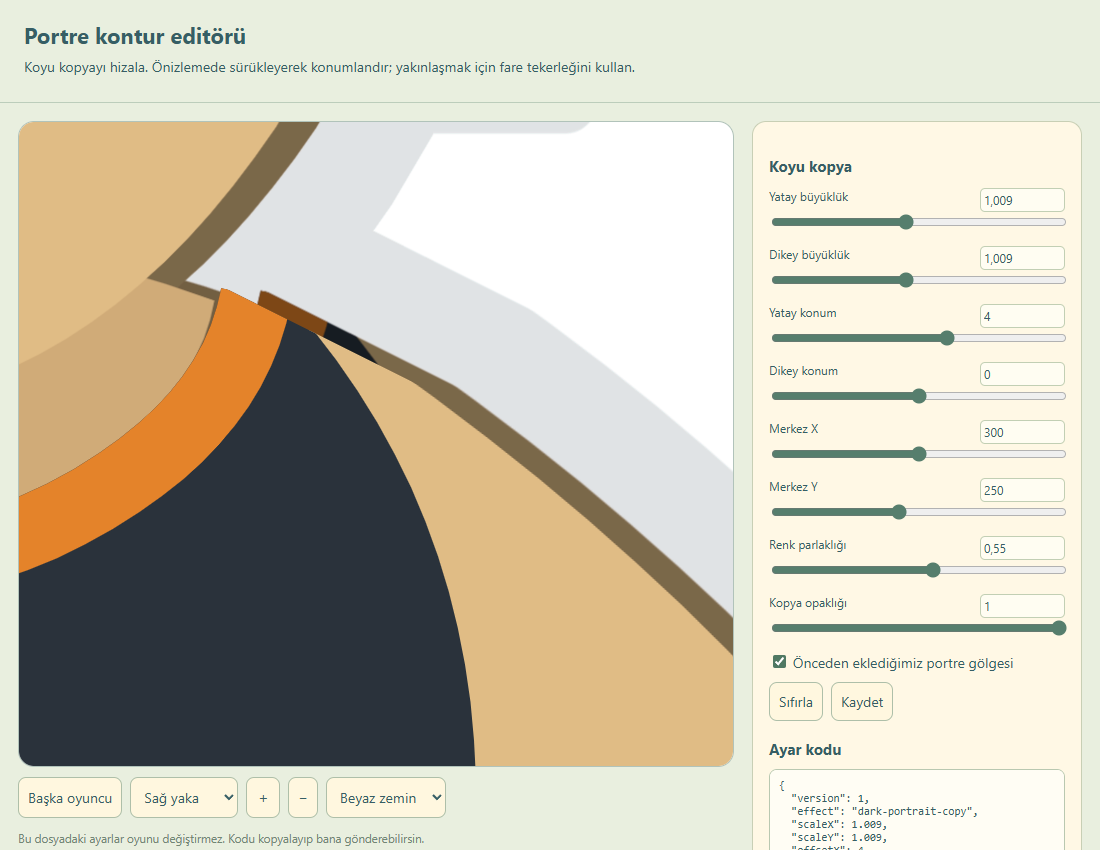
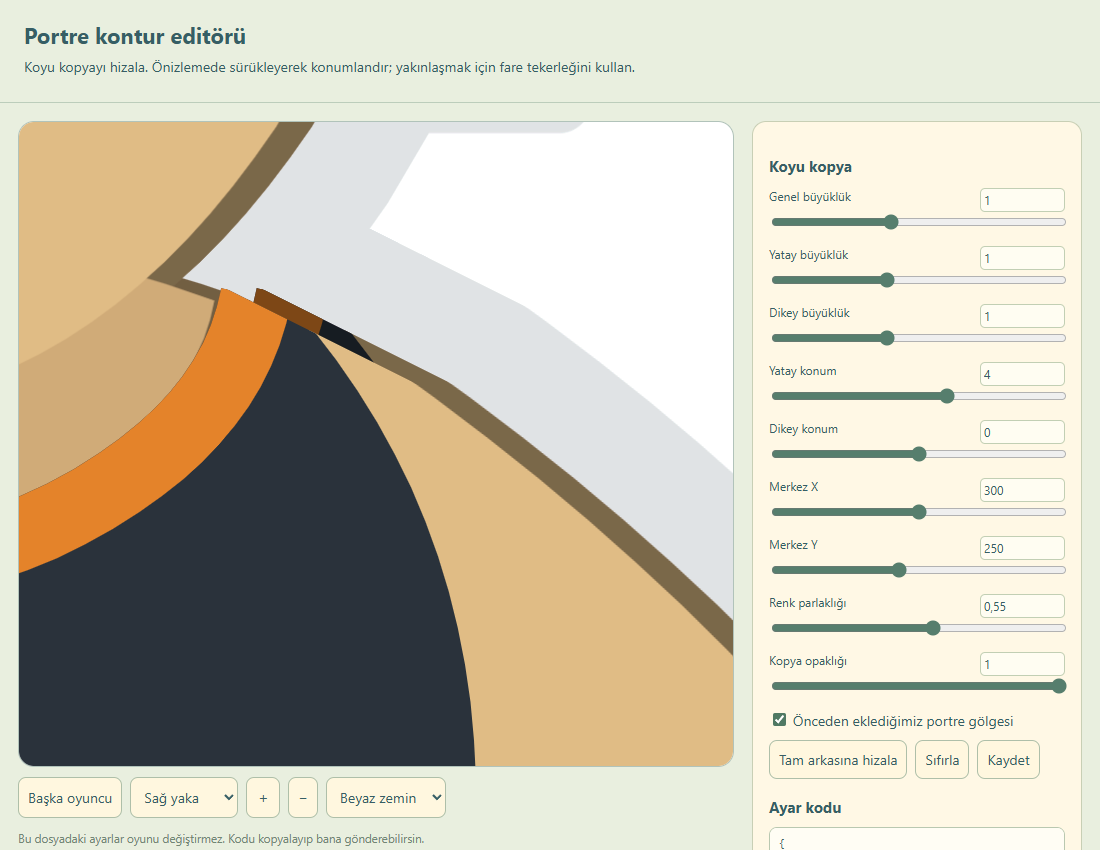
Add uniform portrait scale and exact overlap alignment in editor

diff --git a/portrait-outline-editor.html b/portrait-outline-editor.html
@@ -1,13 +1,13 @@
 <!doctype html><html lang="tr"><meta charset="utf-8"><meta name="viewport" content="width=device-width,initial-scale=1"><title>Portre kontur editörü</title><style>
 *{box-sizing:border-box}body{margin:0;background:#e9efdf;color:#365e65;font:14px system-ui}header{padding:20px 24px;border-bottom:1px solid #bccdbb}h1{font-size:22px;margin:0 0 6px}p{margin:5px 0;line-height:1.5}main{display:grid;grid-template-columns:minmax(0,1fr) 330px;gap:18px;padding:18px;max-width:1440px;margin:auto}.stage{position:sticky;top:15px;height:76vh;min-height:360px;background:#fff;border:1px solid #b1c3ba;border-radius:16px;overflow:hidden;touch-action:none;cursor:grab}.stage:active{cursor:grabbing}.stage svg{width:100%;height:100%;display:block}.tools{display:flex;gap:8px;flex-wrap:wrap;margin:10px 0}button,select,input,textarea{font:inherit;color:inherit}button,select{background:#fff7df;border:1px solid #aebfa9;border-radius:8px;padding:9px;cursor:pointer}button:active{transform:translateY(1px)}aside{background:#fff8e5;padding:16px;border:1px solid #c8cfb5;border-radius:14px}h2{font-size:15px;margin:18px 0 10px}label.control{display:block;margin:12px 0}label.control>span{display:flex;justify-content:space-between;gap:8px;font-size:12px}input[type=range]{width:100%;accent-color:#567e6d}input[type=number]{width:85px;background:#fffdf2;border:1px solid #c2cfb4;border-radius:5px;padding:3px}textarea{width:100%;min-height:160px;background:#fffdf4;border:1px solid #b9c8b0;padding:9px;border-radius:8px;font:11px monospace}small{color:#728775}#notice{min-height:22px;font-size:12px}input[type=checkbox]{accent-color:#507963}@media(max-width:760px){main{display:block;padding:10px}.stage{position:relative;top:0;height:55vh;min-height:280px}aside{margin-top:12px}}
-</style><header><h1>Portre kontur editörü</h1><p>Koyu kopyayı hizala. Önizlemede sürükleyerek konumlandır; yakınlaşmak için fare tekerleğini kullan.</p></header><main><section><div id="stage" class="stage" aria-label="Portre önizlemesi"></div><div class="tools"><button id="new">Başka oyuncu</button><select id="view"><option value="portrait">Tam portre</option><option value="right">Sağ yaka</option><option value="left">Sol yaka</option></select><button id="zoomIn">＋</button><button id="zoomOut">−</button><select id="ground"><option value="#ffffff">Beyaz zemin</option><option value="#e9efdf">Menü zemini</option><option value="#365765">Koyu zemin</option></select></div><small>Bu dosyadaki ayarlar oyunu değiştirmez. Kodu kopyalayıp bana gönderebilirsin.</small></section><aside><h2>Koyu kopya</h2><div id="controls"></div><label><input id="shadow" type="checkbox" checked> Önceden eklediğimiz portre gölgesi</label><div class="tools"><button id="reset">Sıfırla</button><button id="save">Kaydet</button></div><h2>Ayar kodu</h2><textarea id="code" aria-label="Kontur ayar kodu" spellcheck="false"></textarea><div class="tools"><button id="copy">Kodu kopyala</button><button id="apply">Kodu uygula</button><button id="download">JSON indir</button></div><p id="notice" role="status"></p></aside></main>
+</style><header><h1>Portre kontur editörü</h1><p>Koyu kopyayı hizala. Önizlemede sürükleyerek konumlandır; yakınlaşmak için fare tekerleğini kullan.</p></header><main><section><div id="stage" class="stage" aria-label="Portre önizlemesi"></div><div class="tools"><button id="new">Başka oyuncu</button><select id="view"><option value="portrait">Tam portre</option><option value="right">Sağ yaka</option><option value="left">Sol yaka</option></select><button id="zoomIn">＋</button><button id="zoomOut">−</button><select id="ground"><option value="#ffffff">Beyaz zemin</option><option value="#e9efdf">Menü zemini</option><option value="#365765">Koyu zemin</option></select></div><small>Bu dosyadaki ayarlar oyunu değiştirmez. Kodu kopyalayıp bana gönderebilirsin.</small></section><aside><h2>Koyu kopya</h2><div id="controls"></div><label><input id="shadow" type="checkbox" checked> Önceden eklediğimiz portre gölgesi</label><div class="tools"><button id="align">Tam arkasına hizala</button><button id="reset">Sıfırla</button><button id="save">Kaydet</button></div><h2>Ayar kodu</h2><textarea id="code" aria-label="Kontur ayar kodu" spellcheck="false"></textarea><div class="tools"><button id="copy">Kodu kopyala</button><button id="apply">Kodu uygula</button><button id="download">JSON indir</button></div><p id="notice" role="status"></p></aside></main>
 <script src="team-asset-data.js"></script><script src="hair-colors.js"></script><script src="profile-hair-data.js"></script><script src="player-arm-gear.js"></script><script src="character-colors.js"></script><script src="team-appearance.js"></script><script>
 'use strict';
-const $=id=>document.getElementById(id),defaults={version:1,effect:'dark-portrait-copy',scaleX:1.009,scaleY:1.009,offsetX:0,offsetY:0,pivotX:300,pivotY:250,darkness:.55,alpha:1,shadow:true},ranges=[['scaleX','Yatay büyüklük',.95,1.08,.001],['scaleY','Dikey büyüklük',.95,1.08,.001],['offsetX','Yatay konum',-20,20,.1],['offsetY','Dikey konum',-20,20,.1],['pivotX','Merkez X',150,450,1],['pivotY','Merkez Y',100,450,1],['darkness','Renk parlaklığı',0,1,.01],['alpha','Kopya opaklığı',0,1,.01]];let state={...defaults},seed=7,shape,zoom=1,base=[125,65,350,375];try{state={...defaults,...JSON.parse(localStorage.getItem('portrait-copy-editor-v1')||'{}')}}catch{}
+const $=id=>document.getElementById(id),defaults={version:1,effect:'dark-portrait-copy',scale:1,scaleX:1,scaleY:1,offsetX:0,offsetY:0,pivotX:300,pivotY:250,darkness:.55,alpha:1,shadow:true},ranges=[['scale','Genel büyüklük',.8,1.3,.001],['scaleX','Yatay büyüklük',.95,1.08,.001],['scaleY','Dikey büyüklük',.95,1.08,.001],['offsetX','Yatay konum',-20,20,.1],['offsetY','Dikey konum',-20,20,.1],['pivotX','Merkez X',150,450,1],['pivotY','Merkez Y',100,450,1],['darkness','Renk parlaklığı',0,1,.01],['alpha','Kopya opaklığı',0,1,.01]];let state={...defaults},seed=7,shape,zoom=1,base=[125,65,350,375];try{state={...defaults,...JSON.parse(localStorage.getItem('portrait-copy-editor-v2')||'{}')}}catch{}
 for(const [key,title,min,max,step]of ranges){const label=document.createElement('label');label.className='control';label.innerHTML='<span>'+title+'<input type="number" min="'+min+'" max="'+max+'" step="'+step+'" data-number="'+key+'"></span><input type="range" min="'+min+'" max="'+max+'" step="'+step+'" data-range="'+key+'">';for(const input of label.querySelectorAll('input'))input.oninput=()=>{state[key]=Math.min(max,Math.max(min,Number(input.value)||0));render();};$('controls').append(label);}
 function makePlayer(){let n=seed;const a=TeamAppearance.generate(()=>((n=Math.imul(n,1664525)+1013904223>>>0)/4294967296));a.parts.find(p=>p.id==='shirt').tint='#29323b';const src=TeamAppearance.portrait(a,{lineArt:false,playerCrop:true,bareArms:true,jerseyAccent:'#e4832a',jerseyNumber:18});const doc=new DOMParser().parseFromString(decodeURIComponent(src.slice(src.indexOf(',')+1)),'image/svg+xml'),svg=doc.documentElement;shape=svg.innerHTML;render();}
-function render(){for(const [key]of ranges){document.querySelector('[data-range="'+key+'"]').value=state[key];const input=document.querySelector('[data-number="'+key+'"]');if(document.activeElement!==input)input.value=state[key];}$('shadow').checked=state.shadow;const d=state.darkness,transform='translate('+state.offsetX+' '+state.offsetY+') translate('+state.pivotX+' '+state.pivotY+') scale('+state.scaleX+' '+state.scaleY+') translate('+(-state.pivotX)+' '+(-state.pivotY)+')';$('stage').innerHTML='<svg xmlns="http://www.w3.org/2000/svg"><defs><g id="editor-original">'+shape+'</g><filter id="editor-dark" x="-30%" y="-30%" width="160%" height="160%" color-interpolation-filters="sRGB"><feColorMatrix type="matrix" values="'+d+' 0 0 0 0 0 '+d+' 0 0 0 0 0 '+d+' 0 0 0 0 0 1 0"/></filter><filter id="editor-shadow" x="-30%" y="-30%" width="160%" height="160%"><feMorphology in="SourceAlpha" operator="dilate" radius="8.5" result="wide"/><feFlood flood-color="#263e4a" flood-opacity=".15"/><feComposite in2="wide" operator="in"/><feMerge><feMergeNode/><feMergeNode in="SourceGraphic"/></feMerge></filter></defs><g '+(state.shadow?'filter="url(#editor-shadow)"':'')+'><use href="#editor-original" transform="'+transform+'" filter="url(#editor-dark)" opacity="'+state.alpha+'"/><use href="#editor-original"/></g></svg>';setView();$('code').value=JSON.stringify(state,null,2);}
+function render(){for(const [key]of ranges){document.querySelector('[data-range="'+key+'"]').value=state[key];const input=document.querySelector('[data-number="'+key+'"]');if(document.activeElement!==input)input.value=state[key];}$('shadow').checked=state.shadow;const d=state.darkness,transform='translate('+state.offsetX+' '+state.offsetY+') translate('+state.pivotX+' '+state.pivotY+') scale('+(state.scale*state.scaleX)+' '+(state.scale*state.scaleY)+') translate('+(-state.pivotX)+' '+(-state.pivotY)+')';$('stage').innerHTML='<svg xmlns="http://www.w3.org/2000/svg"><defs><g id="editor-original">'+shape+'</g><filter id="editor-dark" x="-30%" y="-30%" width="160%" height="160%" color-interpolation-filters="sRGB"><feColorMatrix type="matrix" values="'+d+' 0 0 0 0 0 '+d+' 0 0 0 0 0 '+d+' 0 0 0 0 0 1 0"/></filter><filter id="editor-shadow" x="-30%" y="-30%" width="160%" height="160%"><feMorphology in="SourceAlpha" operator="dilate" radius="8.5" result="wide"/><feFlood flood-color="#263e4a" flood-opacity=".15"/><feComposite in2="wide" operator="in"/><feMerge><feMergeNode/><feMergeNode in="SourceGraphic"/></feMerge></filter></defs><g '+(state.shadow?'filter="url(#editor-shadow)"':'')+'><use href="#editor-original" transform="'+transform+'" filter="url(#editor-dark)" opacity="'+state.alpha+'"/><use href="#editor-original"/></g></svg>';setView();$('code').value=JSON.stringify(state,null,2);}
 function setView(){const [x,y,w,h]=base;$('stage').querySelector('svg').setAttribute('viewBox',[x+w/2-w/zoom/2,y+h/2-h/zoom/2,w/zoom,h/zoom].join(' '));}
 $('view').onchange=()=>{base=$('view').value==='right'?[325,265,80,65]:$('view').value==='left'?[195,265,80,65]:[125,65,350,375];zoom=1;setView();};$('zoomIn').onclick=()=>{zoom=Math.min(8,zoom*1.25);setView();};$('zoomOut').onclick=()=>{zoom=Math.max(.5,zoom/1.25);setView();};$('stage').onwheel=e=>{e.preventDefault();zoom=Math.max(.5,Math.min(8,zoom*(e.deltaY<0?1.1:1/1.1)));setView();};let drag=null;$('stage').onpointerdown=e=>{const svg=$('stage').querySelector('svg'),m=svg.getScreenCTM().inverse(),p=new DOMPoint(e.clientX,e.clientY).matrixTransform(m);drag={x:p.x,y:p.y,ox:state.offsetX,oy:state.offsetY,m};$('stage').setPointerCapture(e.pointerId);};$('stage').onpointermove=e=>{if(!drag)return;const p=new DOMPoint(e.clientX,e.clientY).matrixTransform(drag.m);state.offsetX=Math.max(-20,Math.min(20,Math.round((drag.ox+p.x-drag.x)*10)/10));state.offsetY=Math.max(-20,Math.min(20,Math.round((drag.oy+p.y-drag.y)*10)/10));render();};$('stage').onpointerup=$('stage').onpointercancel=()=>drag=null;
-$('new').onclick=()=>{seed++;makePlayer();};$('ground').onchange=()=>{$('stage').style.background=$('ground').value;};$('shadow').onchange=()=>{state.shadow=$('shadow').checked;render();};$('reset').onclick=()=>{state={...defaults};render();};$('save').onclick=()=>{try{localStorage.setItem('portrait-copy-editor-v1',JSON.stringify(state));$('notice').textContent='Bu tarayıcıya kaydedildi.';}catch{$('notice').textContent='Kaydedilemedi; kodu kopyalayabilirsin.';}};$('apply').onclick=()=>{try{const data=JSON.parse($('code').value);for(const [k,,min,max]of ranges){if(typeof data[k]!=='number'||!Number.isFinite(data[k])||data[k]<min||data[k]>max)throw Error(k);}state={...defaults,...Object.fromEntries(ranges.map(([k])=>[k,data[k]])),shadow:data.shadow!==false};render();$('notice').textContent='Ayarlar uygulandı.';}catch{$('notice').textContent='Kod veya değer aralığı geçersiz.';}};$('copy').onclick=async()=>{try{await navigator.clipboard.writeText($('code').value);$('notice').textContent='Kopyalandı.';}catch{$('code').select();$('notice').textContent='Ctrl+C ile kopyalayabilirsin.';}};$('download').onclick=()=>{const url=URL.createObjectURL(new Blob([$('code').value],{type:'application/json'})),a=document.createElement('a');a.href=url;a.download='portrait-outline.json';a.click();setTimeout(()=>URL.revokeObjectURL(url),1000);};makePlayer();
+$('new').onclick=()=>{seed++;makePlayer();};$('ground').onchange=()=>{$('stage').style.background=$('ground').value;};$('shadow').onchange=()=>{state.shadow=$('shadow').checked;render();};$('align').onclick=()=>{Object.assign(state,{scale:1,scaleX:1,scaleY:1,offsetX:0,offsetY:0,pivotX:300,pivotY:250});render();$('notice').textContent='Aynı boyutta, tam üst üste hizalandı.';};$('reset').onclick=()=>{state={...defaults};render();};$('save').onclick=()=>{try{localStorage.setItem('portrait-copy-editor-v2',JSON.stringify(state));$('notice').textContent='Bu tarayıcıya kaydedildi.';}catch{$('notice').textContent='Kaydedilemedi; kodu kopyalayabilirsin.';}};$('apply').onclick=()=>{try{const data=JSON.parse($('code').value);for(const [k,,min,max]of ranges){if(typeof data[k]!=='number'||!Number.isFinite(data[k])||data[k]<min||data[k]>max)throw Error(k);}state={...defaults,...Object.fromEntries(ranges.map(([k])=>[k,data[k]])),shadow:data.shadow!==false};render();$('notice').textContent='Ayarlar uygulandı.';}catch{$('notice').textContent='Kod veya değer aralığı geçersiz.';}};$('copy').onclick=async()=>{try{await navigator.clipboard.writeText($('code').value);$('notice').textContent='Kopyalandı.';}catch{$('code').select();$('notice').textContent='Ctrl+C ile kopyalayabilirsin.';}};$('download').onclick=()=>{const url=URL.createObjectURL(new Blob([$('code').value],{type:'application/json'})),a=document.createElement('a');a.href=url;a.download='portrait-outline.json';a.click();setTimeout(()=>URL.revokeObjectURL(url),1000);};makePlayer();
 </script></html>

diff --git a/DESIGN-SYSTEM.md b/DESIGN-SYSTEM.md
@@ -1105,3 +1105,5 @@ Doğrulama: test-flow-lane-install.cjs görünür başlangıç, sıfır yatay pa
 30 Ekim portre kontur editörü: portrait-outline-editor.html bağımsız, gerçek TeamAppearance geometrisini kullanır. Koyu kopyada ayrı XY ölçek/konum/merkez, RGB koyuluğu ve alfa; portre gölgesi anahtarı; tam portre/sağ-sol yaka yakın planı; sürükleme ve zoom vardır. JSON kopyala/yapıştır/indir ve tarayıcıya kaydet/yükle içerir. Üretim ayarlarını değiştirmez. test-portrait-outline-editor.cjs canlı konum, JSON, yeniden açılış kaydı, yaka görünümü ve 390px taşma testlerini geçti; ekran görüntüsü incelendi.
 
 30 Ekim lig/kadro boşluk düzeltmesi: Lig paneli açıkken main üst boşluğu 4px, başlık üst marjı 3px; diğer menü ve safe-area alanları korunur. Kadro değişimi ailesinin iki portresinde sağ alt OVR fark rozetleri vardır: giren yeni−eski, çıkan eski−yeni; artış yeşil, düşüş sıcak kahve, eşit nötr. Aynı veri kaynağı gerçek TeamRules.overall değeridir. 320/390 açık/koyu ortak kadro/transfer regresyonu geçti, gerçek rozeti ekran görüntüsünde kontrol edildi.
+
+30 Ekim editör hizalama kararı: Varsayılan koyu kopya ölçeği artık tam 1×1, XY konum 0; başlangıçta birebir asıl portrenin arkasındadır. Genel büyüklük kontrolü iki eksene birlikte çarpan uygular; ayrı XY kontrolleri korunur. Tam arkasına hizala düğmesi tüm geometrik çarpan ve konumları birebir eşleşmeye döndürür. Eski v1 editör kaydı bu yeni başlangıca taşınmaz; v2 alanına kaydedilir. Üretim portresini değiştirmez. Testte 1.02 genel çarpanın iki eksende uygulanması ve hizala ile 1×1e dönüş doğrulandı.
